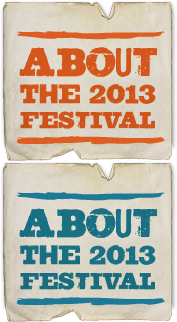
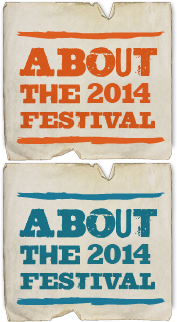
Synced with FTP server for initial repo

Changed region(s): [[0.4802, 0.7453, 0.8757, 0.8385], [0.4802, 0.2484, 0.8757, 0.3416]]

diff --git a/index.php b/index.php
@@ -9,6 +9,35 @@
   });
 </script>
 
-<!-- nav is the only thing on this page, it's being restyled to fill up the whole page -->
 
+<!-- <div id="modal_2013" class="close">
+  <div class="content kraft">
+    <div class="close kraft blue">&times;</div>
+    <h1>The 5th Annual San Francisco Street Food Festival – 2013</h1>
+    <p>More info coming soon. Stay tuned on <a href="http://facebook.com/sanfranciscostreetfoodfestival">Facebook</a> or <a href="http://twitter.com/streetfoodsf">Twitter</a> for more information!</p>
+    <h2>Get Involved!</h2>
+    <p>If you&rsquo;d like to get involved in the 2013 Festival, please fill out the <a href="https://docs.google.com/spreadsheet/viewform?fromEmail=true&formkey=dG56Uy0tYXo5MDF4V21BUFpVMmFoV1E6MA">Volunteer Application</a>.</p>
+    <h2>Sponsors</h2>
+    <ul class="text">
+      <li><a href="downloads/sponsor_packet.pdf">Sponsor Information Packet (PDF, 4mb)</a></li>
+      <li>Contact <a href="mailto:carola@lacocinasf.org">carola@lacocinasf.org</a> for more information.</li>
+    </ul>
+    <h2>Neighbor Parking Information</h2>
+    <a href="https://docs.google.com/a/lacocinasf.org/spreadsheet/viewform?formkey=dHQ5eWZ2RUxKVkdFMXZoYWlRZGoyY3c6MA">Neighboor Parking Form</a>
+
+  </div>
+</div> -->
+
+<script type="text/javascript">
+//   $(function(){
+//     $('#modal_2013').click(function(event){
+//       target = $(event.target);
+//       if( target.hasClass('close') ){
+//         $(this).fadeOut();
+//       }
+//     });
+//   })
+</script>
+
+<!-- nav is the only thing on this page, it's being restyled to fill up the whole page -->
 <?php require 'inc/bottom.inc.php'; ?>

diff --git a/inc/top.inc.php b/inc/top.inc.php
@@ -41,7 +41,7 @@ function googleTranslateElementInit() {
         
     <div id="wrap">
       <header>
-        <a href="index.php" id="streetfood_header"><img src="images/<?= ($page_id == 'night_market') ? 'market_' : '' ?>header_2013.png" /></a>
+        <a href="index.php" id="streetfood_header"><img src="images/<?= ($page_id == 'night_market') ? 'market_' : '' ?>header_2014.png" /></a>
       </header>
       <div id="content" class="cf">
         <div class="navigation kraft blue<?= $full_nav ? " full_nav" : " standard_nav" ?>">
